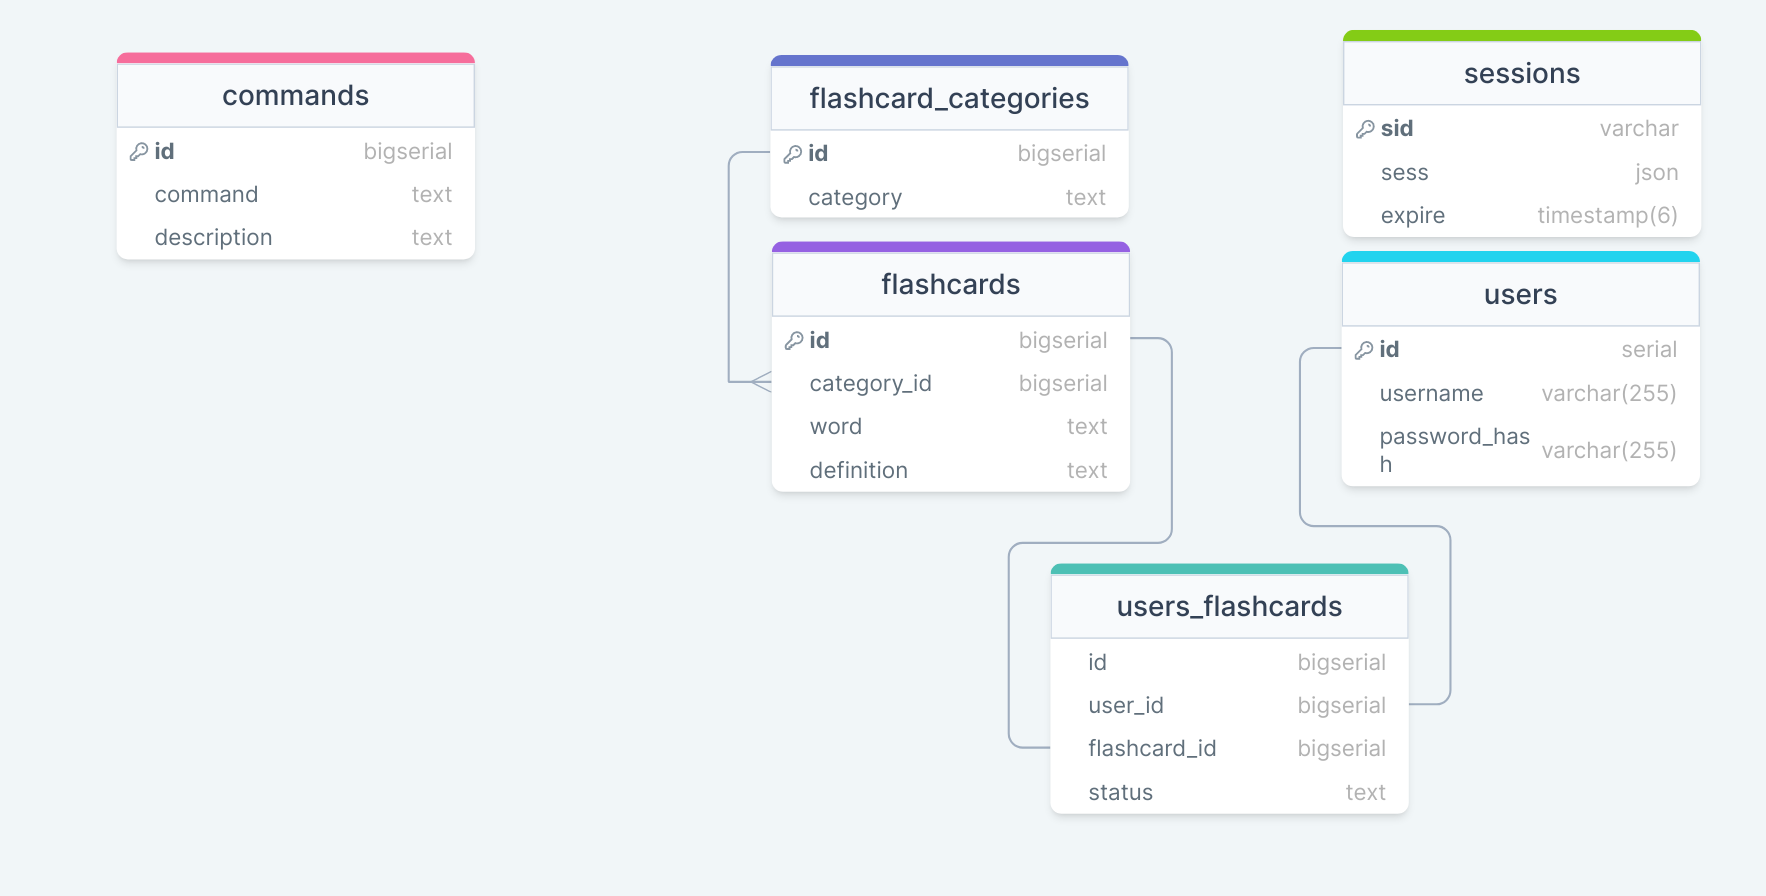
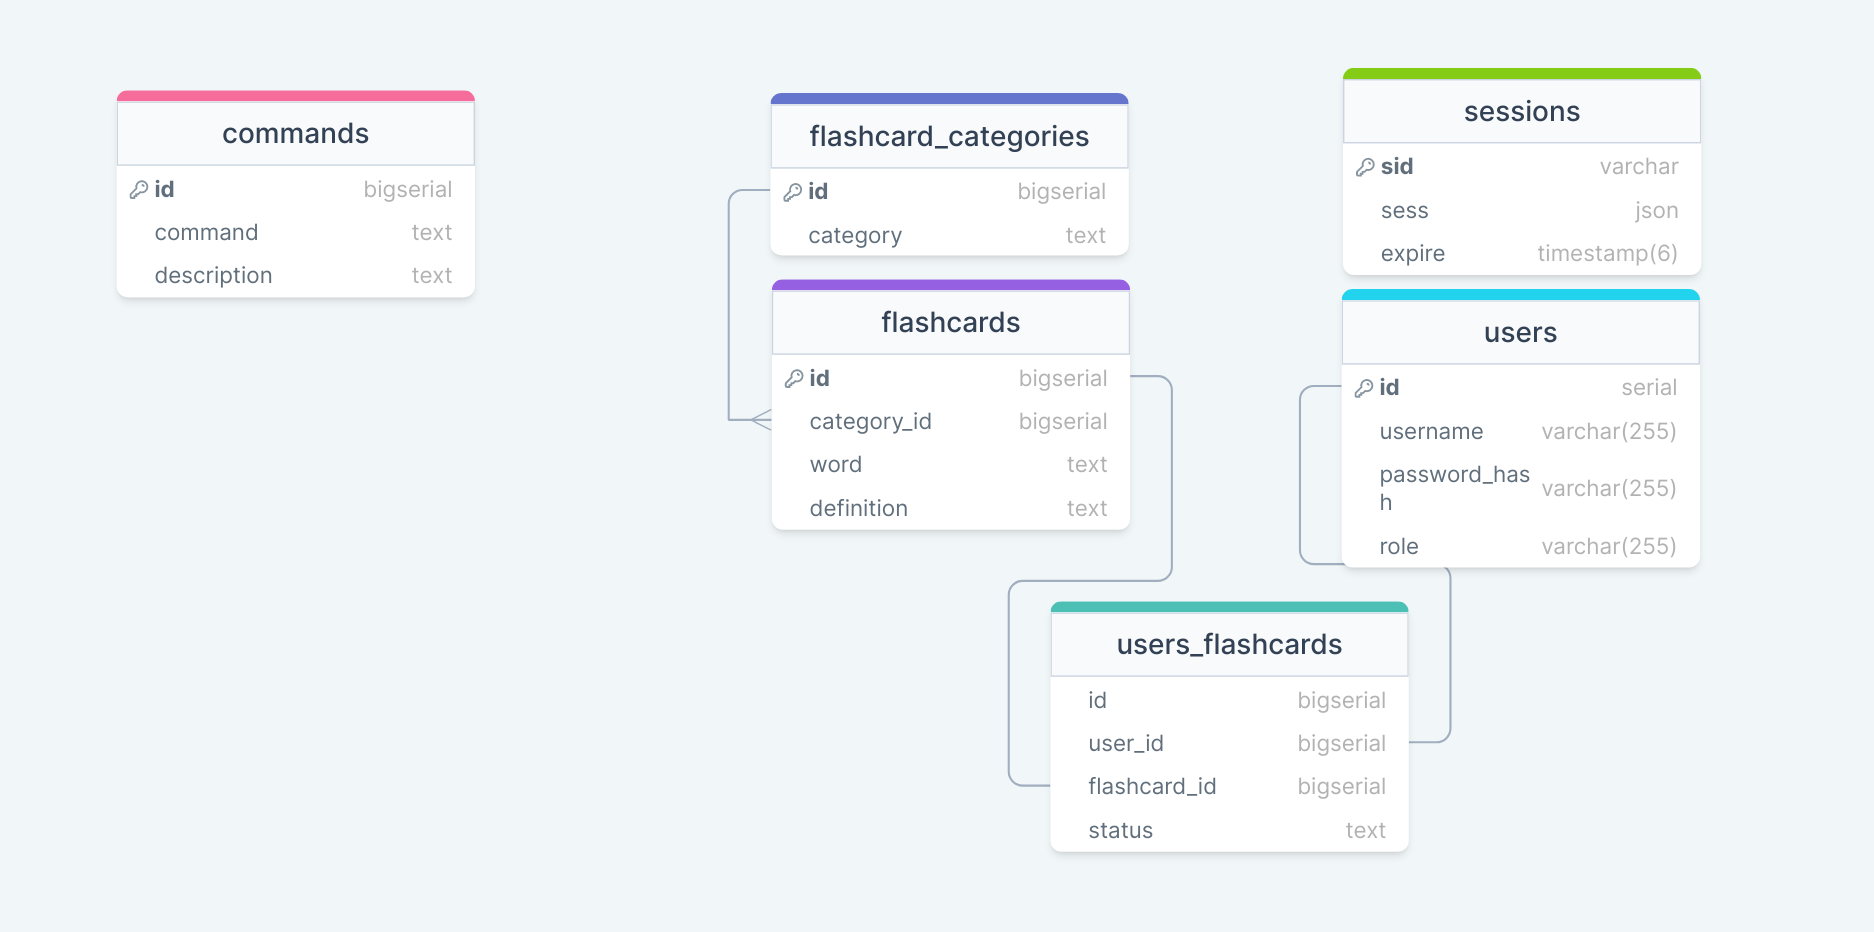
Add user roles

diff --git a/src/server/routes/authentication-routes.js b/src/server/routes/authentication-routes.js
@@ -32,6 +32,12 @@ const registerUser = async (req, res) => {
         return
     }
 
+    // Verifies the role was provided
+    if (req.body.role === undefined) {
+        sendBadRequest(req, res, "No role provided.")
+        return
+    }
+
     // Verifies the username passed does not already exists
     let query_options = [req.body.username]
     let database_response = await database_pool.query("SELECT username FROM users WHERE username = $1;", query_options)
@@ -45,8 +51,8 @@ const registerUser = async (req, res) => {
     const password_hash = bcrypt.hashSync(req.body.password, parseInt(process.env.salt_rounds))
 
     // Inserts the user data into the database
-    query_options = [req.body.username, password_hash]
-    database_response = await database_pool.query("INSERT INTO users (username, password_hash) VALUES ($1, $2) RETURNING *;", query_options)
+    query_options = [req.body.username, password_hash, req.body.role]
+    database_response = await database_pool.query("INSERT INTO users (username, password_hash, role) VALUES ($1, $2) RETURNING *;", query_options)
     if (database_response.rowCount === 0) {
         sendBadRequest(req, res, "Unable to register account.")
         return
